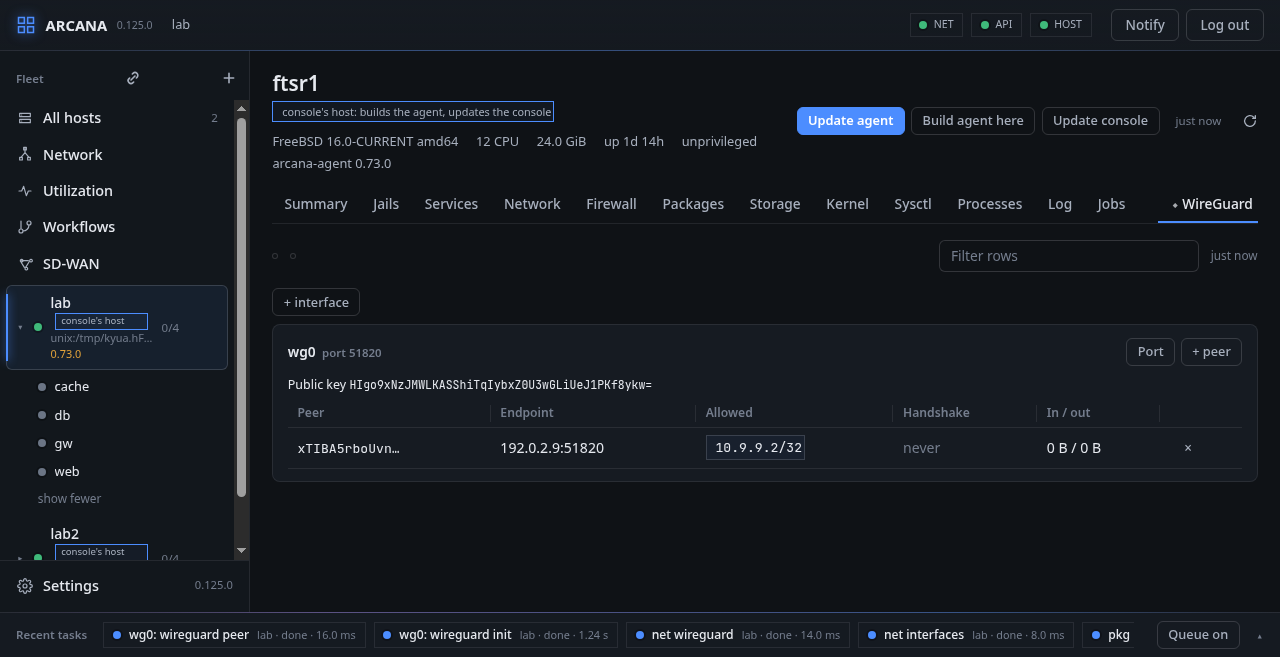
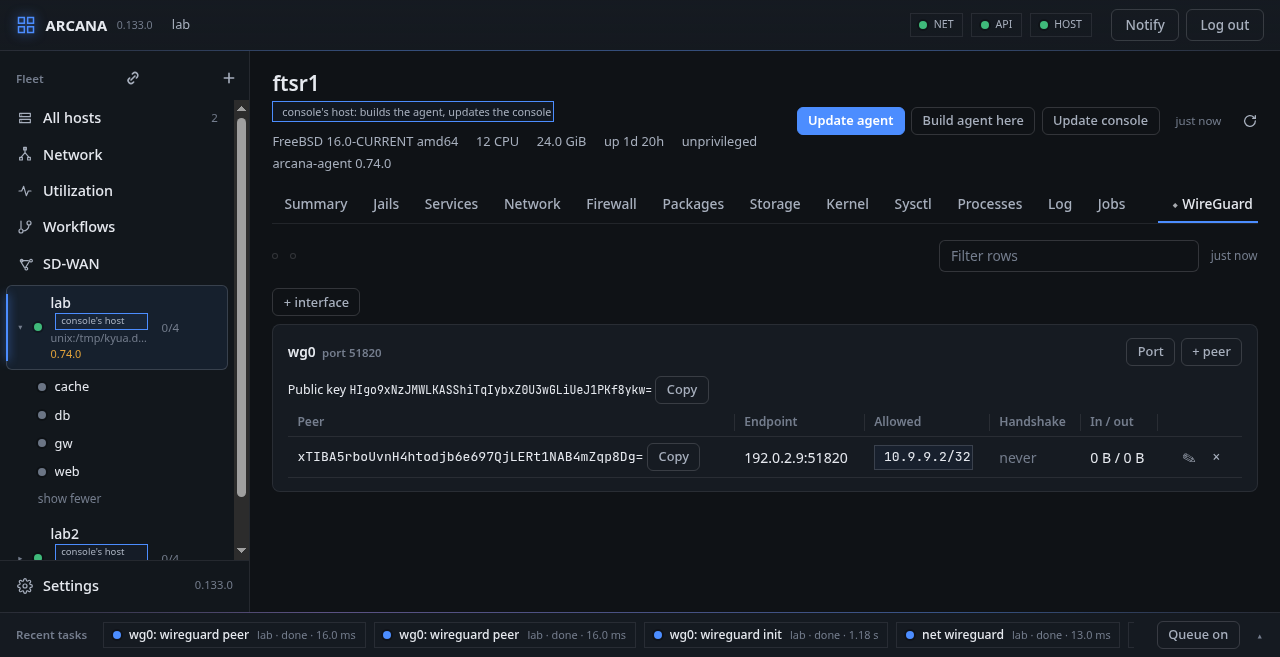
The plugins: a WireGuard peer changed from its form, and keys shown whole with Copy

diff --git a/src/sections/plugins.md b/src/sections/plugins.md
@@ -33,6 +33,11 @@ handshake, traffic.
   stays on the host: the console is told, and shows, public keys only,
   and what `wg` prints with keys in it is kept out of the trace.
 - **+ peer** adds a peer by its public key; the cross removes one.
+- **✎** on a peer opens its form with what it has (endpoint, allowed
+  addresses, keepalive), its key fixed: what the form says is what the
+  peer has after. A keepalive of 0 turns it off.
+- Every public key, the interface's and each peer's, is shown whole,
+  with **Copy**.
 - **+ interface** opens the interface form with wg chosen.
 
 Kept for a boot, an interface is written with its key, addresses and
